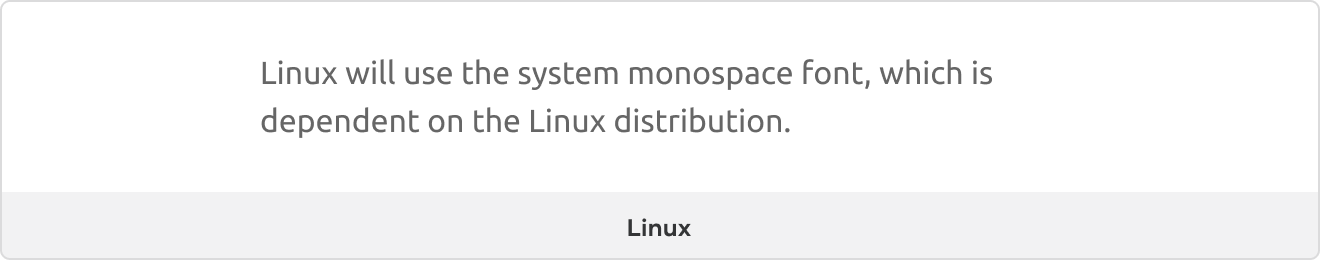
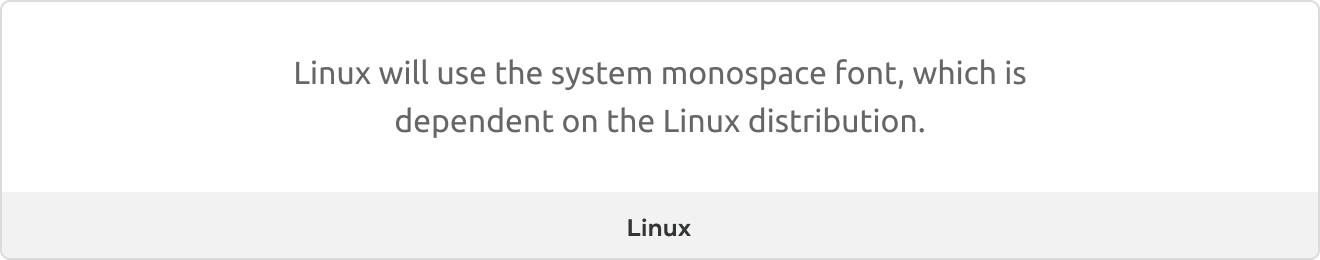
Updates based on feedback
- Fixing text alignment in Linux images
- Updating the example sentence to use the full phrase
- Clarifying a few key points

Changed region(s): [[0.1864, 0.2154, 0.7765, 0.3385], [0.1864, 0.4, 0.7144, 0.5231]]

diff --git a/website/docs/foundations/typography/index.js b/website/docs/foundations/typography/index.js
@@ -70,7 +70,7 @@ export default class Index extends Component {
     Object.keys(STYLES_COMBINATIONS).forEach((style) => {
       STYLES_COMBINATIONS[style].forEach((weight) => {
         combinations.push({
-          previewText: 'The fox jumped over the lazy dog',
+          previewText: 'The quick brown fox jumps over the lazy dog.',
           previewClass: `hds-typography-${style} hds-font-weight-${weight}`,
           otherText: `${style} (${weight})`,
         });

diff --git a/website/docs/foundations/typography/partials/code/how-to-use.md b/website/docs/foundations/typography/partials/code/how-to-use.md
@@ -4,10 +4,10 @@ While we do offer design tokens for typography, we recommend using the predefine
 
 ### CSS helper classes
 
-In a single declaration, these classes contain everything to apply a standard style to an element: `font-family`, `font-size`, `line-height`, and a reset for `margin` and `padding` to match the intended design language.
+In a single declaration, these classes contain everything to apply a standard typographic style to an element: `font-family`, `font-size`, `line-height`, and a reset for `margin` and `padding` to match the intended design language.
 
 ```markup
-<p class="hds-typography-display-300">The fox jumped over the lazy dog.</p>
+<p class="hds-typography-display-300">The quick brown fox jumps over the lazy dog.</p>
 ```
 
 #### Font styles
@@ -19,7 +19,7 @@ In a single declaration, these classes contain everything to apply a standard st
 While we don’t recommend using custom styles often, `font-family` helpers are available to change the font family of an element.
 
 ```markup
-<p class="hds-font-family-sans-text">The fox jumped over the lazy dog.</p>
+<p class="hds-font-family-sans-text">The quick brown fox jumps over the lazy dog.</p>
 ```
 
 | `font-family` helpers         | Use for                  |
@@ -33,14 +33,14 @@ While we don’t recommend using custom styles often, `font-family` helpers are 
 
 #### Font weight
 
-Use the `font-weight` helpers to change the weight of an element.
+Use the `font-weight` helpers to change the weight of text in an element.
 
 ```markup
 <!-- with font-family CSS helpers -->
-<p class="hds-font-family-sans-text hds-font-weight-medium">The fox jumped over the lazy dog.</p>
+<p class="hds-font-family-sans-text hds-font-weight-medium">The quick brown fox jumps over the lazy dog.</p>
 
 <!-- with typographic style CSS helpers -->
-<p class="hds-typography-display-300 hds-font-weight-semibold">The fox jumped over the lazy dog.</p>
+<p class="hds-typography-display-300 hds-font-weight-semibold">The quick brown fox jumps over the lazy dog.</p>
 ```
 
 <Doc::FontHelpersList @items={{this.cssHelpers.weights}} />
